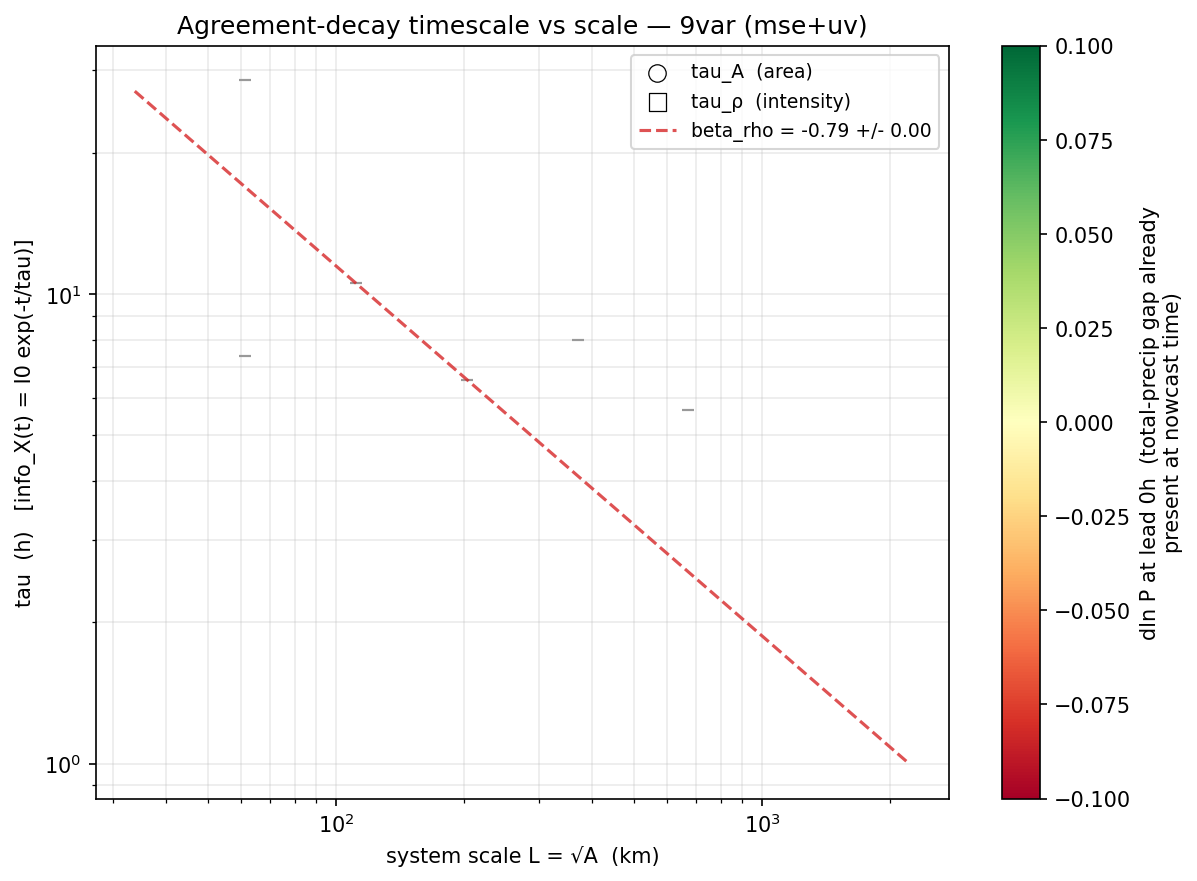
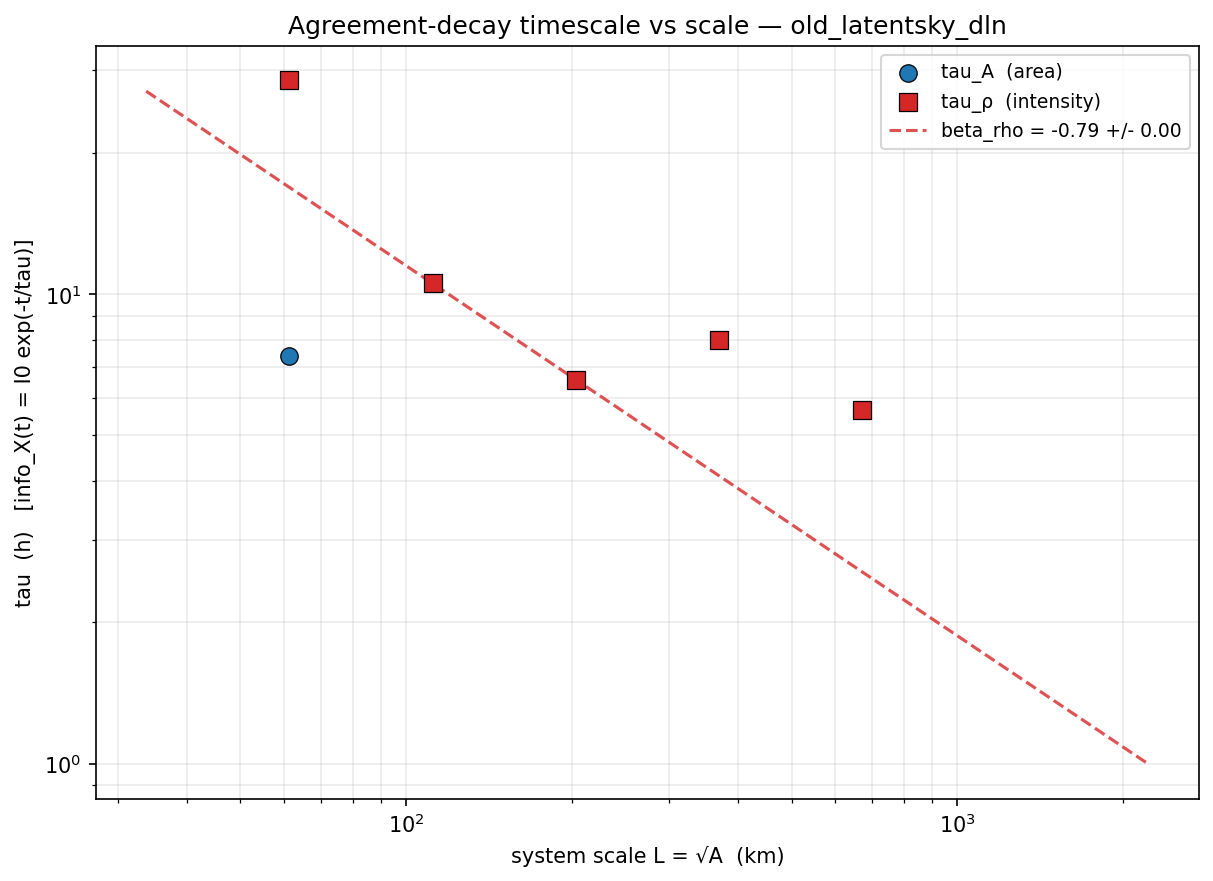
Fix invisible-marker bug in fit_dln_tau_scaling.py: dlnP0 color-coding assumed lead=0h always exists, which isn't true for old-LatentSky/two-head (only trained at 3h+); fall back to plain markers + skip colorbar instead of rendering NaN-colored (fully transparent) points. Also fix title showing raw 

diff --git a/scripts/analysis/fit_dln_tau_scaling.py b/scripts/analysis/fit_dln_tau_scaling.py
@@ -78,11 +78,13 @@ def main() -> None:
     df = pd.read_csv(repo / args.summary)
     if args.runs is not None:
         g = df[df["name"].isin(args.runs)]
+        label = args.tag
         if g.empty:
             opts = sorted(df["name"].unique())
             raise SystemExit(f"no rows for runs {args.runs!r}; available: {opts}")
     else:
         g = df[df["predictor_set"] == args.predictor_set]
+        label = args.predictor_set
         if g.empty:
             opts = sorted(df["predictor_set"].unique())
             raise SystemExit(f"no rows for predictor set {args.predictor_set!r}; "
@@ -127,18 +129,34 @@ def main() -> None:
 
     # dlnP at lead 0 per scale — the total-precip gap already present at
     # nowcast time, used to color the tau markers (not fit to anything).
-    dlnP0 = (g[g["lead_h"] == 0.0].set_index("scale_mid")["dlnP_med"]
-             .reindex(scales).to_numpy())
-    vmax = max(abs(np.nanmin(dlnP0)), abs(np.nanmax(dlnP0)), 1e-6)
-    cnorm = TwoSlopeNorm(vcenter=0.0, vmin=-vmax, vmax=vmax)
-    cmap = cm.RdYlGn
+    # Some run families (e.g. old-LatentSky, only ever trained/evaluated at
+    # 3h/6h) have no lead=0h row at all -- reindex() against an empty frame
+    # then silently gives all-NaN, and matplotlib renders NaN-colored
+    # scatter points as fully transparent (cmap "bad" color defaults to
+    # alpha=0), which looks like "nothing plotted" even though the
+    # errorbar dashes still render. Fall back to a plain fixed color and
+    # skip the colorbar rather than silently producing invisible markers.
+    has_lead0 = (g["lead_h"] == 0.0).any()
+    if has_lead0:
+        dlnP0 = (g[g["lead_h"] == 0.0].set_index("scale_mid")["dlnP_med"]
+                 .reindex(scales).to_numpy())
+        vmax = max(abs(np.nanmin(dlnP0)), abs(np.nanmax(dlnP0)), 1e-6)
+        cnorm = TwoSlopeNorm(vcenter=0.0, vmin=-vmax, vmax=vmax)
+        cmap = cm.RdYlGn
+    else:
+        print(f"note: no lead=0h data for {label} -- markers won't be colored by "
+              "dln P at lead 0h (doesn't exist for this run family)")
+        dlnP0_by_scale = {}
+        cnorm = None
+        cmap = None
 
     # --- headline plot: tau_A(L) and tau_rho(L) ---------------------------
     fig, ax = plt.subplots(figsize=(8.2, 6))
     styles = {"A": dict(marker="o", line_color="C0", label="tau_A  (area)"),
              "rho": dict(marker="s", line_color="C3", label="tau_ρ  (intensity)")}
     Lgrid = np.geomspace(scales.min(), scales.max(), 100)
-    dlnP0_by_scale = dict(zip(scales, dlnP0))
+    if has_lead0:
+        dlnP0_by_scale = dict(zip(scales, dlnP0))
 
     for qname, style in styles.items():
         sub = fits[fits["quantity"] == qname].sort_values("scale_mid")
@@ -146,13 +164,18 @@ def main() -> None:
         tau = sub["tau"].to_numpy()
         tau_se = sub["tau_se"].to_numpy()
         m = np.isfinite(tau)
-        c = np.array([dlnP0_by_scale[l] for l in L])
 
         ax.errorbar(L[m], tau[m], yerr=tau_se[m], fmt="none",
                     ecolor="0.6", capsize=3, zorder=2)
-        sc = ax.scatter(L[m], tau[m], c=c[m], cmap=cmap, norm=cnorm,
-                        marker=style["marker"], s=70, edgecolors="k",
-                        linewidths=0.6, zorder=3, label=style["label"])
+        if has_lead0:
+            c = np.array([dlnP0_by_scale[l] for l in L])
+            sc = ax.scatter(L[m], tau[m], c=c[m], cmap=cmap, norm=cnorm,
+                            marker=style["marker"], s=70, edgecolors="k",
+                            linewidths=0.6, zorder=3, label=style["label"])
+        else:
+            ax.scatter(L[m], tau[m], color=style["line_color"],
+                       marker=style["marker"], s=70, edgecolors="k",
+                       linewidths=0.6, zorder=3, label=style["label"])
 
         pl = powerlaws[qname]
         if np.isfinite(pl["beta"]):
@@ -164,12 +187,13 @@ def main() -> None:
     ax.set_yscale("log")
     ax.set_xlabel("system scale L = √A  (km)")
     ax.set_ylabel("tau  (h)   [info_X(t) = I0 exp(-t/tau)]")
-    ax.set_title(f"Agreement-decay timescale vs scale — {args.predictor_set}")
+    ax.set_title(f"Agreement-decay timescale vs scale — {label}")
     ax.grid(True, which="both", alpha=0.25)
     ax.legend(fontsize=9, loc="best")
 
-    cbar = fig.colorbar(cm.ScalarMappable(norm=cnorm, cmap=cmap), ax=ax)
-    cbar.set_label("dln P at lead 0h  (total-precip gap already\npresent at nowcast time)")
+    if has_lead0:
+        cbar = fig.colorbar(cm.ScalarMappable(norm=cnorm, cmap=cmap), ax=ax)
+        cbar.set_label("dln P at lead 0h  (total-precip gap already\npresent at nowcast time)")
 
     fig.tight_layout()
     out_fig = FIGURES_DIR / f"tau_vs_scale_{args.tag}.png"
